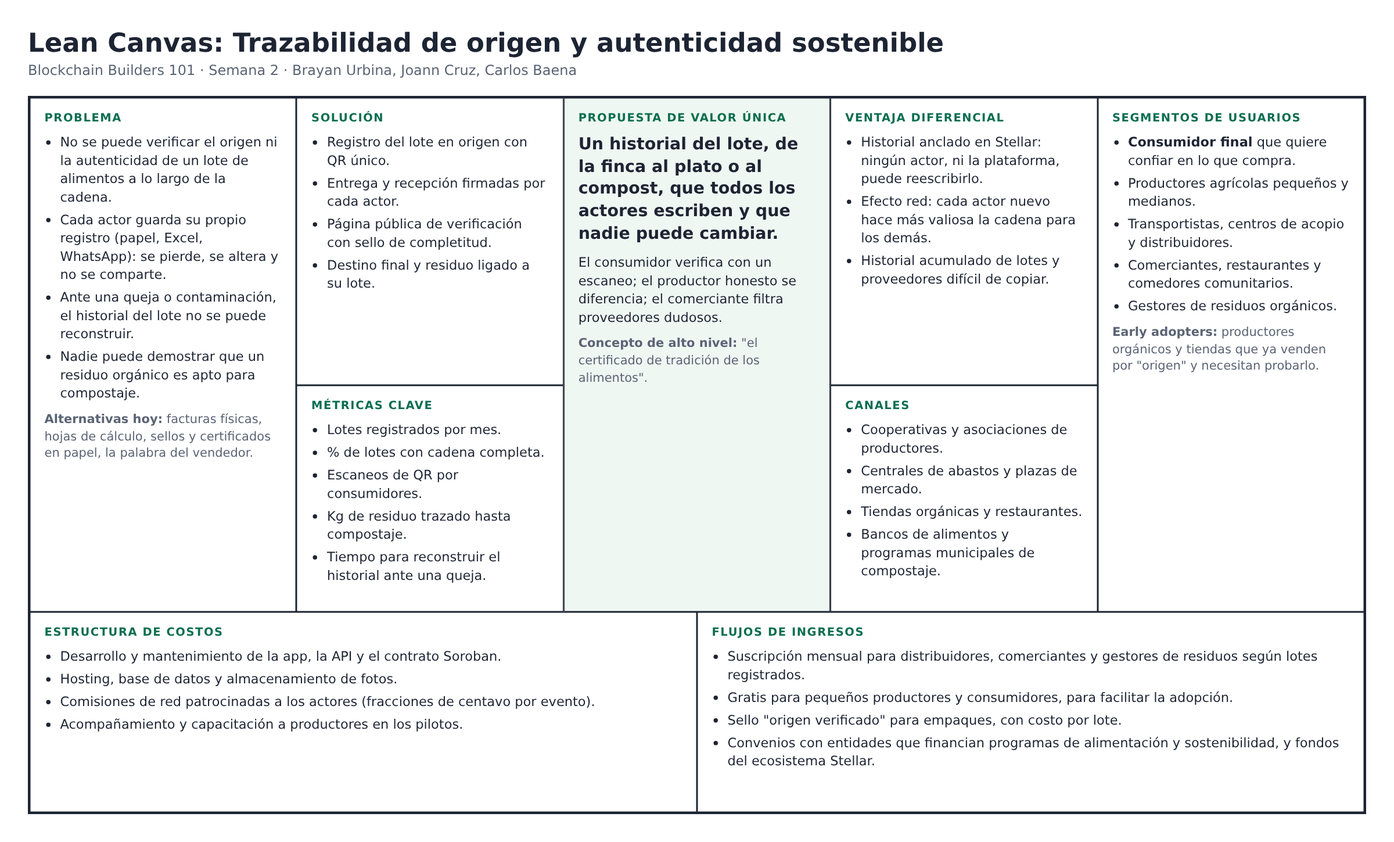
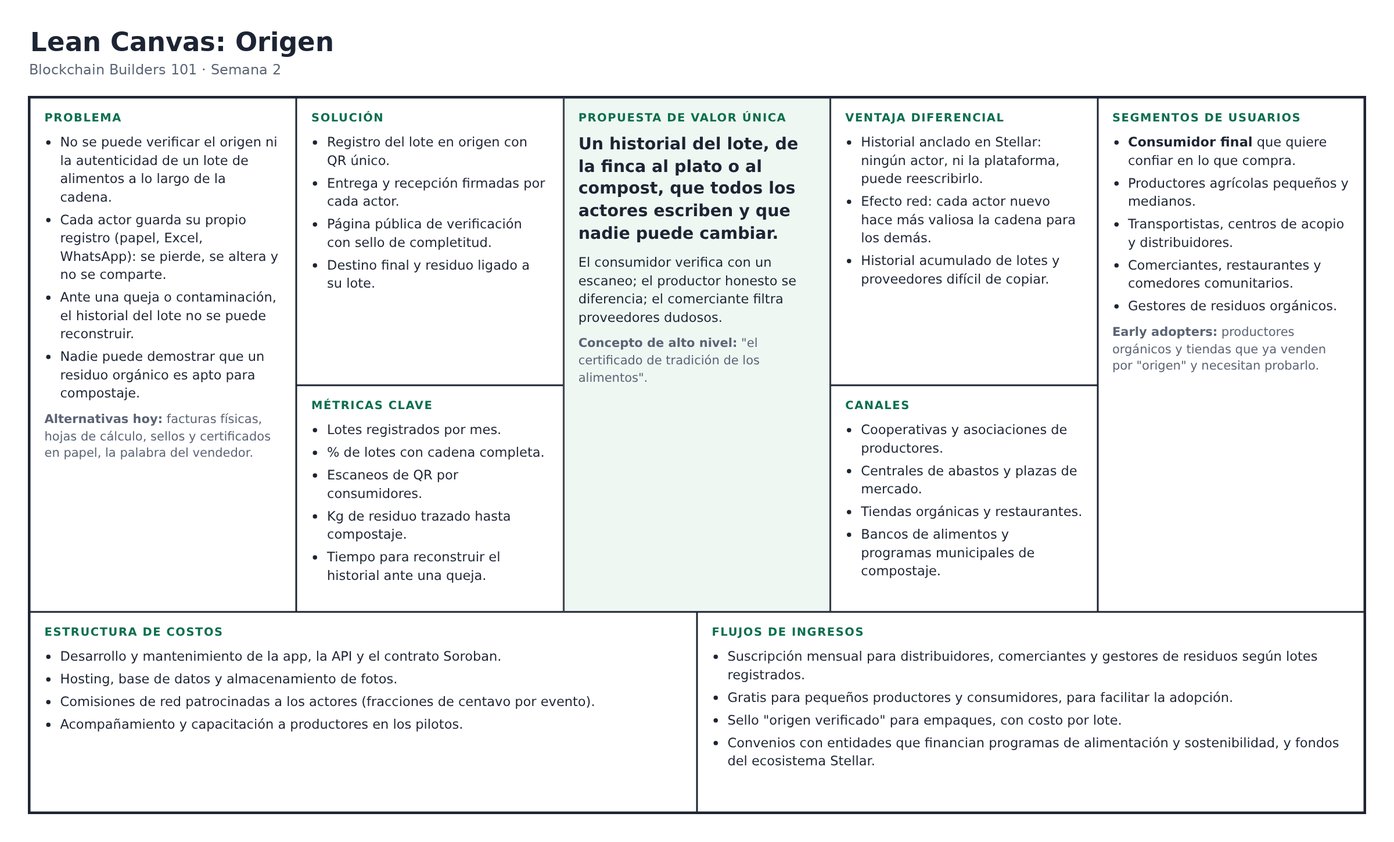
Producto Origen: Problem Brief coherente y sin nombres del equipo

Changed region(s): [[0.0, 0.0311, 0.6875, 0.0932]]

diff --git a/docs/semana1/ProblemBrief.md b/docs/semana1/ProblemBrief.md
@@ -4,29 +4,20 @@
 
 ### Problema elegido
 
-> El problema ganador en una frase, sin mencionar blockchain, y quién lo propuso.
-
-La dificultad para verificar la autenticidad y trazabilidad de productos y residuos orgánicos a lo largo de la cadena logística, desde el campo hasta el consumidor final. Fue propuesto por el equipo como una oportunidad real para mejorar la confianza, la sostenibilidad y la transparencia en la distribución de alimentos y residuos.
+Los alimentos, sus excedentes y los residuos orgánicos que generan no pueden verificarse a lo largo de la cadena, desde el campo hasta el consumidor final o el compostaje: nadie puede comprobar de dónde vienen, por qué manos pasaron ni a dónde fueron a parar. Lo tomé de una de las propuestas individuales del equipo y le sumé el enfoque de excedentes y desperdicio de alimentos de otra.
 
 ### Por qué elegimos este
 
-> Qué inclinó al equipo por este problema frente a los demás, según los criterios de la Sesión 1.
-
-Porque afecta a varias partes de la cadena: productores, transportistas, distribuidores, retailers y consumidores, y además tiene impacto ambiental y económico. La falta de trazabilidad genera fraude, productos no auténticos, desperdicio de alimentos y dificultades para aprovechar correctamente los residuos orgánicos como abono. Además, el problema es observable, repetitivo y tiene un claro valor social y operativo, lo que permite plantear una solución con fuerte pertinencia para blockchain.
+Lo elegí porque dos de las tres propuestas individuales apuntaban al mismo flujo: alimentos cuyo origen y destino no se pueden demostrar. Al unirlas, el problema cubre la cadena completa, desde la cosecha hasta el excedente y el abono. Además cumple dos criterios de la Sesión 1: varias partes que no confían entre sí (productor, transportista, distribuidor, comerciante, restaurante o comedor, consumidor y gestor de residuos) necesitan compartir un mismo registro, y el historial de cada lote no debería poder alterarse. Tiene también un impacto económico y ambiental medible: en Colombia se pierde o desperdicia cerca de una de cada tres toneladas de alimentos disponibles.
 
 ### Propuestas descartadas
 
-> Cada propuesta considerada, quién la propuso y el motivo del descarte.
-
-- Pago digital para microempresarios en zonas rurales: propuesta secundaria del equipo, pero se consideró más enfocada en la inclusión financiera que en el problema de trazabilidad real de la cadena de valor.
-- Verificación de origen de productos de lujo: sugerida por un integrante, pero se descartó por ser demasiado específica y menos relevante para el impacto colectivo y ambiental del proyecto.
-- Compra y venta de energías renovables: propuesta discutida, pero se descartó porque depende de marcos regulatorios y mercados energéticos más complejos que la logística de alimentos y residuos.
+- **Historial de vehículos usados en Colombia.** Se descartó porque una parte del historial ya la cubre el RUNT (propietarios, SOAT, revisión técnico-mecánica) y el resto depende de que talleres y aseguradoras, que hoy no tienen incentivo para hacerlo, registren su información. Esas eran justamente las dos dudas que la propia propuesta dejaba por validar.
+- **Trazabilidad del desperdicio de alimentos.** No se descartó: se integró al problema elegido como la parte de excedentes, donaciones y residuos de los servicios de alimentación.
 
 ### Cómo tomamos la decisión
 
-> Cómo llegó el equipo al acuerdo: votación, consenso tras debate u otro.
-
-Se realizó una discusión grupal para priorizar problemas con alto impacto, alcance real y capacidad de solución con trazabilidad verificable. Tras comparar varias opciones, el equipo consensuó que la autenticidad y trazabilidad de productos y residuos orgánicos era la propuesta más sólida, porque conecta producción, distribución, consumo y reutilización de residuos de manera clara y medible.
+Cada integrante planteó un problema en su propuesta individual. Yo las comparé y vi que dos de ellas describían el mismo problema desde las dos puntas de la cadena: el origen del producto y el destino de lo que sobra. Decidí unirlas en un solo problema y dejar de lado la propuesta de vehículos, que no se conectaba con las otras dos y que en parte ya cubre el RUNT.
 
 ---
 
@@ -34,80 +25,93 @@ Se realizó una discusión grupal para priorizar problemas con alto impacto, alc
 
 ### Encabezado
 
-> Nombre del proyecto y una frase que describa el problema. Extensión: breve.
-
-Trazabilidad de origen y autenticidad sostenible. Cuando los productos y los residuos orgánicos no pueden verificarse desde el campo hasta el consumidor final, se pierde confianza, se favorece el fraude y se desperdicia valor ambiental y económico.
+Origen. Cuando los alimentos, sus excedentes y los residuos orgánicos no pueden verificarse desde el campo hasta el consumidor final o el compostaje, se pierde confianza, queda espacio para el fraude y se desperdicia valor económico y ambiental.
 
 ### Equipo y roles
 
-> Integrantes con su usuario de GitHub, rol asumido por cada persona, responsable de las entregas y canal de coordinación interna. Extensión: breve.
+El equipo tiene tres integrantes. Cada uno planteó un problema en su propuesta individual, que está en `docs/semana1/`:
 
-Equipo de trabajo: Brayan Urbina, responsable de validación del problema, documentación y coordinación interna; miembros del equipo con roles de producto, investigación y presentación. Canal de coordinación: GitHub, reuniones semanales y seguimiento por tareas compartidas.
+- Trazabilidad de productos y residuos orgánicos desde el campo hasta el consumidor final (base del problema elegido).
+- Trazabilidad del desperdicio de alimentos en servicios de alimentación (integrada al problema elegido).
+- Historial de vehículos usados en Colombia (descartada).
+
+A partir de esas propuestas, yo elegí el problema, elaboré este Problem Brief y diseñé la propuesta escogida.
+
+Canal de coordinación: el repositorio y el tablero Kanban en GitHub.
 
 ### Problema y evidencia
 
-> Enunciado del problema en una frase, sin mencionar blockchain. Contexto, frecuencia y alcance. Evidencia mínima de que el problema existe: observación directa, experiencia propia, conversaciones o fuentes consultadas, con enlace o cita cuando aplique. Extensión: 150–300 palabras.
+Los alimentos que salen del campo, sus excedentes y los residuos orgánicos que generan no pueden verificarse a lo largo de la cadena logística. En cada cambio de manos (de la finca al transporte, al centro de acopio, al distribuidor y al comerciante o al restaurante) el origen, la calidad y la identidad del lote quedan anotados de forma parcial, en registros que cada actor guarda a su manera. Lo mismo pasa al final: nadie puede demostrar cuánto alimento sobró, si se vendió, se donó o terminó en la basura, ni si un residuo orgánico viene de un origen limpio y sirve para compostaje. Es un problema diario, porque ocurre con cada lote que se mueve, y alcanza a toda la cadena de alimentos frescos.
 
-El problema consiste en que productos agrícolas, alimentos y residuos orgánicos no pueden verificarse fácilmente a lo largo de la cadena logística: desde el origen en el campo, pasando por procesos de transporte, almacenamiento, distribución y venta, hasta llegar al consumidor final o al tratamiento para convertirlos en abono. En muchos casos, el origen real, la calidad, la identidad del lote y la trazabilidad del residuo no quedan registrados de forma confiable. Esto genera fraude, dudas sobre autenticidad, pérdida de valor y dificultad para reutilizar residuos orgánicos en procesos sostenibles.
+Evidencia:
 
-La evidencia aparece en conversaciones con productores, distribuidores y consumidores que reportan dificultades para confirmar dónde se produjo un alimento, si fue manipulado o si un residuo orgánico proviene realmente de un origen limpio y verificable. En la práctica, gran parte de la información se maneja en documentos físicos, mensajes o hojas de cálculo, que pueden perderse, alterarse o no compartirse entre todos los actores. El resultado es una cadena de suministro poco transparente, que afecta la confianza del cliente, la eficiencia operativa y la recuperación de valor de los desechos orgánicos.
+- **Fuentes consultadas.** Según un estudio del DNP, en Colombia se pierden o desperdician 9,76 millones de toneladas de alimentos al año, el 34 % de la oferta disponible ([Semana](https://www.semana.com/pais/articulo/colombianos-desperdician-9-millones-de-toneladas-de-comida/221786/)). La FAO estima que cerca del 60 % de esa pérdida y desperdicio ocurre antes del consumo, en producción, transporte y almacenamiento ([Tetra Pak, citando a la FAO](https://www.tetrapak.com/es-co/about-tetra-pak/news-and-events/newsarchive/colombia-pierde-9-76-millones-de-toneladas-de-alimentos-al-ano--)), justo los tramos donde hoy no queda un registro compartido.
+- **Propuestas individuales.** Una de las propuestas individuales describe que cada actor maneja su propia información y que, cuando surge una duda sobre el origen o el manejo de un producto, no existe una evidencia común que resuelva el conflicto. Otra señala que los servicios de alimentación no tienen datos de cuánto alimento se bota o se dona.
+- **Pendiente.** Validar el problema con conversaciones directas con productores, comerciantes y comedores comunitarios (ver supuestos).
 
 ### Usuario y actores
 
-> Quién sufre el problema y qué necesita resolver. Cómo lo resuelve hoy y qué le cuesta en dinero, tiempo o esfuerzo. Demás actores que intervienen en el flujo, con el papel que cumple cada uno. Extensión: 150–300 palabras.
+El usuario principal es la persona que compra alimentos o productos agrícolas y quiere confiar en que lo que recibe es auténtico, seguro y viene de donde dice. Junto a ella sufren el problema los actores que necesitan demostrar algo: el productor honesto, que no puede probar el origen de su cosecha, y los restaurantes, comedores comunitarios y comerciantes, que no pueden demostrar a dónde fue a parar el alimento que les sobró.
 
-El usuario principal es cualquier persona que compra alimentos o productos agrícolas y quiere confiar en que lo que recibe es auténtico, seguro y conforme a su origen. También importa la persona o entidad que genera residuos orgánicos y desea reutilizarlos en compostaje o abono, asegurando que ese material tenga un origen verificable y no esté contaminado. El problema afecta tanto al consumidor final como a productores, distribuidores, retailers y gestores de residuos.
+Hoy lo resuelven con facturas y remisiones en papel, cuadernos, hojas de cálculo y mensajes de WhatsApp que cada uno guarda a su manera. Eso cuesta tiempo para confirmar datos, aumenta los errores y hace casi imposible demostrar autenticidad cuando surge una disputa. Cuesta dinero, porque se paga igual por un producto dudoso que por uno auténtico y se pierden lotes completos ante una queja que no se puede aclarar. Y cuesta valor ambiental, porque sin datos de cuánto sobra ni en qué estado, el excedente termina en la basura en lugar de donarse o convertirse en abono.
 
-Hoy, muchas de estas personas resuelven la situación con facturas físicas, registros manuscritos, mensajes de WhatsApp o hojas de cálculo. Esto exige tiempo extra para confirmar datos, aumenta la posibilidad de errores y hace muy difícil demostrar autenticidad cuando surge una disputa. Las pérdidas no son solo financieras: también hay impacto en la confianza del cliente, en la sostenibilidad y en la calidad del proceso de reciclaje y abono.
+Actores que intervienen:
 
-Los actores involucrados son: el productor del campo, que necesita demostrar el origen de la cosecha; el transportista, que mueve el producto entre puntos; el distribuidor o centro de acopio, que almacena y clasifica; el vendedor o retailer, que necesita confirmar la calidad de lo que ofrece; y el consumidor final, que quiere saber qué está comprando. Además, intervienen quienes gestionan residuos orgánicos para convertirlos en compostaje o abono, quienes necesitan verificar el origen y la limpieza del material.
+- **Productor:** cosecha y arma el lote; necesita demostrar su origen.
+- **Transportista:** lleva el lote entre la finca, el acopio y la distribución.
+- **Centro de acopio o distribuidor:** almacena, clasifica y vende a comerciantes y restaurantes.
+- **Comerciante:** necesita confirmar la calidad y el origen de lo que ofrece.
+- **Restaurante o comedor comunitario:** prepara alimentos y decide si el excedente se vende, se dona (por ejemplo, a un banco de alimentos) o va a compostaje.
+- **Consumidor final:** quiere saber qué está comprando.
+- **Gestor de residuos orgánicos:** convierte los residuos en compostaje o abono y necesita verificar que el material es limpio.
 
 ### Flujo actual de valor
 
-> Recorrido paso a paso de cómo se mueve hoy el dinero, la información o el activo, desde el origen hasta el destino. Diagrama o secuencia numerada, con los intermediarios explícitos. Señalar si algún paso responde a una obligación normativa. Extensión: 150–300 palabras.
-
-1. El productor cosecha o genera un producto o residuo orgánico en el campo o en una operación agrícola.
-2. La información del lote se registra de forma parcial, normalmente en papel, Excel o sistemas desconectados.
-3. El transporte lleva el producto hacia centros de acopio, almacenamiento o distribución.
-4. En cada punto, el producto o residuo pasa por inspecciones, clasificación y cambio de manos, pero la trazabilidad no siempre queda integrada.
-5. El distribuidor vende al retailer o consumidor final, aunque no siempre puede comprobar la autenticidad o el origen exacto del lote.
-6. En el caso de residuos orgánicos, estos se reutilizan como abono o compostaje, pero sin evidencia clara de origen limpio o de manejo correcto.
+1. El productor cosecha y arma el lote en la finca.
+2. La información del lote (origen, fecha, cantidad, calidad) se registra de forma parcial, en papel, Excel o mensajes, y se queda con el productor.
+3. El transportista lleva el lote al centro de acopio o al distribuidor, con una remisión o factura en papel como único respaldo.
+4. En el acopio y la distribución el lote se inspecciona, se clasifica y cambia de manos. Cada actor anota en sus propios registros y la trazabilidad no queda integrada. *Obligación normativa:* las inspecciones de calidad e inocuidad responden a la normativa sanitaria de alimentos.
+5. El distribuidor vende al comerciante o al restaurante, y estos al consumidor final, sin poder comprobar el origen exacto del lote.
+6. Lo que sobra en comerciantes, restaurantes y comedores se vende, se dona o se entrega como residuo orgánico al gestor de residuos para compostaje o abono, sin evidencia de su lote de origen, su cantidad ni su manejo. *Obligación normativa:* la [Ley 1990 de 2019](https://alertas.directoriolegislativo.org/wp-content/uploads/2019/08/LEY-1990-DE-2019.pdf) fija un orden de prioridad para el alimento que sobra: primero reducir la pérdida, luego destinarlo al consumo humano, por ejemplo con donaciones, y solo después aprovecharlo como residuo orgánico.
 7. Cuando surge una queja, contaminación, fraude o diferencia de calidad, la cadena de evidencia es difícil de reconstruir.
 
-En este flujo intervienen productores, transportistas, almacenes, distribuidores, vendedores y gestores de residuos. Además, existen obligaciones regulatorias relacionadas con seguridad alimentaria, control de calidad, manejo de residuos y trazabilidad sanitaria, que exigen documentación adecuada y verificable, pero no siempre se cumplen de forma consistente.
+Intermediarios entre el productor y el consumidor final: transportista, centro de acopio o distribuidor, y comerciante o restaurante. Para lo que sobra intervienen además los bancos de alimentos y los gestores de residuos. Ninguno de ellos concentra la información: cada uno guarda solo su parte del recorrido.
 
 ### Fricciones identificadas
 
-> Puntos concretos donde el flujo falla, se encarece o se demora. Cada fricción indica en qué paso ocurre, qué la causa y a quién afecta. Extensión: 150–300 palabras.
+**Fricción 1 (pasos 2 y 4): no hay un registro compartido y verificable del lote.** Cada actor anota el origen, la calidad y la entrega en sus propios registros, que no se comparten y se pueden perder o alterar. Afecta al productor, que no puede probar el origen de su cosecha; al comerciante y al consumidor, que no pueden verificar lo que compran, y al gestor de residuos, que no sabe de qué lote viene el material.
 
-La primera fricción ocurre en los pasos 2 y 4: la información del producto o residuo no queda registrada de forma confiable ni compartida entre actores. La causa es que cada parte usa sus propios registros, sin una visión común ni verificable. Esto afecta a productores, distribuidores, consumidores y gestores de residuos, porque no pueden demostrar la autenticidad ni la cadena de custodia del material.
+**Fricción 2 (paso 7): el historial no se puede reconstruir cuando hay un problema.** Ante una queja, una contaminación o una sospecha de fraude hay que perseguir papeles y mensajes entre varios actores. Esto provoca retrasos, disputas, devoluciones de lotes completos y daño a la reputación. Afecta sobre todo al distribuidor y al comerciante, y al productor honesto, que termina pagando por la duda.
 
-La segunda fricción aparece cuando se detecta un problema de calidad, contaminación o fraude: no hay una forma clara de reconstruir el historial del lote. Esto provoca retrasos, disputas, pérdidas económicas y riesgo para la reputación. La tercera fricción se presenta en la reutilización de residuos orgánicos: sin validación del origen, es difícil saber si el material es apto para compostaje o abono, o si cumple con estándares de calidad y seguridad.
+**Fricción 3 (paso 6): no se sabe a dónde va lo que sobra.** Nadie registra cuánto excedente hubo ni si se vendió, se donó o se botó, y sin el lote de origen no se puede saber si un residuo es apto para compostaje. Afecta a los restaurantes y comedores, que no pueden demostrar que aprovechan sus excedentes; al gestor de residuos, que no puede garantizar un abono limpio, y a quien compra ese abono.
 
-En resumen, el problema no es solo la falta de datos, sino la falta de una trazabilidad compartida y verificable que se mantenga en toda la cadena, desde el campo hasta el usuario final y la valorización del residuo orgánico.
+Las tres fricciones tienen la misma raíz: falta una trazabilidad compartida y verificable que acompañe al lote desde la finca hasta el consumidor final o el compostaje.
 
 ### Oportunidad e hipótesis
 
-> Oportunidad priorizada entre las fricciones identificadas, con el motivo de la elección. Hipótesis inicial de por qué blockchain podría mejorar ese punto, expresada en términos de qué cambiaría para el usuario. Extensión: 150–300 palabras.
+Prioricé la **fricción 1 (pasos 2 y 4)**: la falta de una trazabilidad compartida y verificable del lote. La elegí porque es la raíz de las otras dos. Si el origen y cada cambio de manos quedan registrados desde la finca, el historial se puede reconstruir en minutos cuando hay una queja (fricción 2) y el excedente o el residuo se puede ligar a su lote de origen (fricción 3). Sin ese registro, ninguna de las otras dos tiene solución.
 
-La fricción priorizada es la ausencia de trazabilidad verificable en toda la cadena de producción y residuos orgánicos. Es la oportunidad clave porque afecta la confianza del consumidor, la eficiencia de la operación y la capacidad de reutilizar de forma segura los desechos como abono. Si cada lote pudiera identificarse y validarse desde el origen hasta el destino final, el sistema tendría menos fraude, más transparencia y mejor aprovechamiento de los materiales.
+La hipótesis es que un registro en blockchain, compartido por todos los actores, permitiría que cada uno firme su propio evento (cosecha, entrega, recepción, destino del excedente) en un historial que ninguno controla por sí solo y que nadie puede editar después. Para los usuarios cambiaría lo siguiente:
 
-La hipótesis es que un sistema basado en blockchain podría crear un registro compartido e inalterable para cada lote de producto o residuo, con información sobre origen, transporte, manipulación y destino final. Esto cambiaría para los usuarios la experiencia de compra: podrían verificar autenticidad, conocer el origen del producto y saber si el residuo generado fue gestionado correctamente. Para los productores y distribuidores, significaría menos pérdidas por dudas de calidad, más confianza con el cliente y una mejor valoración de los desechos orgánicos para compostaje o abono.
+- El consumidor final podría escanear un código y ver de qué finca viene el lote y por qué manos pasó antes de comprarlo.
+- El comerciante podría decidir si acepta un lote mirando si su historial está completo o tiene saltos.
+- El productor honesto podría diferenciar su producto con evidencia y no solo con su palabra.
+- El restaurante o comedor podría demostrar a dónde fue cada excedente, y el gestor de residuos, que su abono viene de material limpio.
 
 ### Criterio de pertinencia
 
-> Justificación de por qué el caso requiere un registro distribuido y no una base de datos tradicional o una integración entre sistemas existentes. Debe apoyarse en al menos uno de los criterios de la Sesión 1: varias partes que no confían entre sí necesitan compartir un mismo registro, el histórico no puede alterarse, o se elimina un intermediario que hoy concentra la confianza. Extensión: 150–300 palabras.
+Este caso se apoya en dos criterios de la Sesión 1.
 
-Este caso requiere un registro distribuido porque hay varias partes con intereses distintos y sin confianza plena entre sí: productor, transportista, distribuidor, retailer, consumidor y gestor de residuos. Todas necesitan compartir la misma evidencia sobre el origen, la manipulación y la transferencia del producto o residuo, sin depender de un único actor que controle la información. Un sistema centralizado suele concentrar la confianza en un operador o empresa, pero eso no resuelve la necesidad de transparencia entre actores diferentes.
+**Varias partes que no confían entre sí necesitan compartir un mismo registro.** Productor, transportista, centro de acopio, distribuidor, comerciante, restaurante o comedor, consumidor y gestor de residuos tienen intereses distintos: quien vende quiere vender caro y quien compra quiere pagar por lo que realmente recibe. Hoy la información no está centralizada en nadie: cada actor guarda su parte. Una base de datos tradicional obligaría a que uno de ellos, o una empresa nueva, controle el registro, y los demás tendrían que confiar en que no lo modifique a su favor. Integrar los sistemas existentes tampoco sirve, porque la mayoría de estos actores no tiene sistemas: usa papel, Excel y WhatsApp.
 
-Además, el historial de cada lote debe ser verificable y difícil de alterar, especialmente cuando se presenta una reclamación, una diferencia de calidad o una sospecha de fraude. Un registro distribuido permite que todos los participantes validen una historia común e inmutable. También reduce la dependencia de intermediarios que hoy centralizan la información y pueden generar dudas o retrasos. En este contexto, la trazabilidad del producto y del residuo orgánico no puede depender solo de documentos aislados, sino de un historial compartido y confiable para toda la cadena.
+**El histórico no puede alterarse.** El valor del registro está en que sirva como evidencia cuando hay una reclamación, una diferencia de calidad o una sospecha de fraude. Si un actor pudiera borrar o cambiar un evento pasado, como la fecha de una entrega o el estado en que llegó un lote, el historial dejaría de servir justo cuando más se necesita. Un registro distribuido, donde cada evento queda firmado por quien lo hizo y no se puede editar, permite que todos validen una historia común sin depender de un intermediario que la custodie.
 
 ### Supuestos y riesgos
 
-> Dos o tres supuestos que tendrían que ser ciertos para que la hipótesis funcione, y qué podría invalidarla. Extensión: 150–300 palabras.
+**Supuesto 1:** los actores de la cadena están dispuestos a registrar cada evento del lote. Lo invalidaría que no vean una ventaja concreta, por ejemplo, que el comerciante no prefiera ni pague mejor un lote con historial completo.
 
-Supuesto 1: los actores de la cadena están dispuestos a registrar y compartir datos sobre el origen y manejo de productos y residuos. Si no ven una ventaja concreta, la adopción será baja. Supuesto 2: es posible capturar información confiable en cada etapa del proceso, incluso desde el campo o el punto de recolección. Si la información se registra de forma incompleta o manipulada, la solución pierde valor. Supuesto 3: existe una demanda real por parte de consumidores y reguladores para verificar autenticidad, calidad y sostenibilidad.
+**Supuesto 2:** es posible capturar información confiable desde el origen, incluso en la finca y con conectividad limitada. Lo invalidaría que los datos iniciales se registren incompletos o falsos: un registro inalterable de un dato falso no aporta confianza.
 
-Los riesgos principales son la baja adopción por parte de productores o distribuidores, la falta de estandarización de datos y la dificultad de integrar los sistemas existentes. También existe el riesgo de que la tecnología no resuelva el problema si la información inicial no es confiable, o si el ecosistema no tiene incentivos claros para mantener el registro actualizado. Si cualquiera de estos supuestos falla, la propuesta dejaría de aportar valor real y no lograría mejorar la trazabilidad y la reutilización de residuos orgánicos.
+**Supuesto 3:** existe una demanda real por verificar el origen y el destino de los alimentos. Lo invalidaría que el consumidor no escanee el código o no cambie su decisión de compra al ver el historial, o que los restaurantes y comedores no necesiten demostrar el destino de sus excedentes.
 
-
+Los riesgos principales son la baja adopción por parte de productores y distribuidores, la falta de estandarización de los datos entre actores y la dificultad de registrar eventos desde el campo. Si alguno de los supuestos falla, la solución no mejoraría la trazabilidad de los alimentos ni el aprovechamiento de sus excedentes y residuos, aunque la tecnología funcione.

diff --git a/docs/semana2/ProductBlueprint.md b/docs/semana2/ProductBlueprint.md
@@ -1,6 +1,6 @@
 # Product Blueprint
 
-**Nombre del proyecto:** Trazabilidad de origen y autenticidad sostenible
+**Nombre del proyecto:** Origen
 
 **Repositorio (enlace obligatorio):** [bootcamp-stellar](https://github.com/burbinagomez/bootcamp-stellar)
 
@@ -21,17 +21,17 @@
 
 ## 1. Priorización de historias
 
-**Criterio de priorización:** MoSCoW aplicado sobre las 21 historias del equipo. Una historia es **imprescindible** si sin ella no existe un historial verificable del lote (origen, custodia y consulta). Es **debería** si le da al usuario una razón directa para adoptar la plataforma o cubre la parte de residuos y excedentes del problema. Las historias que dependen de tener meses de datos o de actores que no están en el primer piloto quedan fuera. Las historias repetidas entre integrantes se fusionaron.
+**Criterio de priorización:** MoSCoW aplicado sobre las 21 historias de usuario. Una historia es **imprescindible** si sin ella no existe un historial verificable del lote (origen, custodia y consulta). Es **debería** si le da al usuario una razón directa para adoptar la plataforma o cubre la parte de residuos y excedentes del problema. Las historias que dependen de tener meses de datos o de actores que no están en el primer piloto quedan fuera. Fusioné las historias que se repetían.
 
-| Prioridad | Historia | Propuesta por | Por qué entra al backlog |
-| :---: | --- | :---: | --- |
-| 1 | Como productor agrícola quiero registrar cada lote al momento de la cosecha y obtener un código único, para demostrar de dónde viene mi producto. | Carlos | Imprescindible: es el primer eslabón y todo lo demás se apoya en él. |
-| 2 | Como administrador quiero asignar a cada usuario su rol, para que cada actor solo registre los eventos que le corresponden. | Brayan | Imprescindible: sin roles el historial pierde credibilidad. |
-| 3 | Como transportista, centro de acopio o distribuidor quiero firmar la entrega y la recepción de un lote, para que la cadena de custodia quede registrada y no pueda modificarse. | Carlos y Brayan | Imprescindible: ataca la fricción principal del Problem Brief (pasos 2 y 4). |
-| 4 | Como consumidor final quiero escanear el QR del producto y ver su origen y recorrido, para saber si es auténtico antes de pagar. | Carlos | Imprescindible: es el valor visible para el usuario principal. |
-| 5 | Como comerciante quiero ver un sello que indique si el historial del lote está completo o tiene saltos, para decidir rápido si lo compro. | Brayan | Debería: convierte el historial en una decisión simple y ayuda a la adopción. |
-| 6 | Como restaurante o servicio de alimentos quiero marcar el destino de cada excedente (donado, vendido o compostaje), para demostrar que no termina en la basura. | Joann | Debería: cubre los excedentes y el desperdicio, que son parte del problema elegido. |
-| 7 | Como gestor de residuos orgánicos quiero registrar los residuos recibidos ligados a su lote de origen y marcarlos como aptos o no aptos para compostaje, para garantizar abono de material limpio. | Carlos | Debería: cierra el ciclo del residuo orgánico. |
+| Prioridad | Historia | Por qué entra al backlog |
+| :---: | --- | --- |
+| 1 | Como productor agrícola quiero registrar cada lote al momento de la cosecha y obtener un código único, para demostrar de dónde viene mi producto. | Imprescindible: es el primer eslabón y todo lo demás se apoya en él. |
+| 2 | Como administrador quiero asignar a cada usuario su rol, para que cada actor solo registre los eventos que le corresponden. | Imprescindible: sin roles el historial pierde credibilidad. |
+| 3 | Como transportista, centro de acopio o distribuidor quiero firmar la entrega y la recepción de un lote, para que la cadena de custodia quede registrada y no pueda modificarse. | Imprescindible: ataca la fricción principal del Problem Brief (pasos 2 y 4). |
+| 4 | Como consumidor final quiero escanear el QR del producto y ver su origen y recorrido, para saber si es auténtico antes de pagar. | Imprescindible: es el valor visible para el usuario principal. |
+| 5 | Como comerciante quiero ver un sello que indique si el historial del lote está completo o tiene saltos, para decidir rápido si lo compro. | Debería: convierte el historial en una decisión simple y ayuda a la adopción. |
+| 6 | Como restaurante o servicio de alimentos quiero marcar el destino de cada excedente (donado, vendido o compostaje), para demostrar que no termina en la basura. | Debería: cubre los excedentes y el desperdicio, que son parte del problema elegido. |
+| 7 | Como gestor de residuos orgánicos quiero registrar los residuos recibidos ligados a su lote de origen y marcarlos como aptos o no aptos para compostaje, para garantizar abono de material limpio. | Debería: cierra el ciclo del residuo orgánico. |
 
 ---
 
@@ -116,11 +116,11 @@ El tablero tiene las 7 historias priorizadas en la sección 1, en las columnas *
 
 **Criterio de pertinencia (del Problem Brief):** Varias partes que no confían entre sí (productor, transportista, distribuidor, comerciante, consumidor y gestor de residuos) necesitan compartir un mismo registro, y el histórico de cada lote no puede alterarse.
 
-| Componente de Stellar | Para qué lo usamos | Por qué ese y no otra alternativa |
+| Componente de Stellar | Para qué lo uso | Por qué ese y no otra alternativa |
 | --- | --- | --- |
 | Contratos inteligentes Soroban | Guardar cada lote y sus eventos, y aplicar las reglas: quién puede registrar qué paso y en qué orden. | Las reglas quedan en la red y no en el servidor de un actor, que podría cambiarlas. Una base de datos central volvería a poner la confianza en un solo operador. |
 | Cuentas de Stellar con firma (smart wallets con passkeys) | Que cada actor firme sus eventos con su propia llave, desde el celular y sin frases semilla. | La firma demuestra quién registró cada paso y nadie puede firmar por otro. Las passkeys bajan la barrera para productores sin experiencia en cripto. |
 | Patrocinio de comisiones (fee-bump transactions) | Que la plataforma pague las comisiones de las transacciones de los actores. | El productor o el comedor no tienen que comprar XLM. Las comisiones de Stellar son de fracciones de centavo, lo que hace viable registrar muchos eventos pequeños. |
 | Stellar RPC y eventos del contrato | Leer el historial del lote para la página pública y mantener actualizado el índice de la API. | Permite que cualquier persona verifique el historial directo en la red, sin confiar en la base de datos de la plataforma. |
 
-Para el MVP usamos testnet. Más adelante se podría emitir un activo de Stellar como incentivo para quienes registren cadenas completas, pero queda fuera del alcance actual.
+Para el MVP uso testnet. Más adelante se podría emitir un activo de Stellar como incentivo para quienes registren cadenas completas, pero queda fuera del alcance actual.

diff --git a/docs/semana1/JoannCruz.md b/docs/semana1/JoannCruz.md
@@ -2,7 +2,7 @@
 
 **Nombre:** Joann Cruz 
 
-**Usuario de GitHub:** JoannC1907:42 PM
+**Usuario de GitHub:** JoannC19
 
 ---
 

diff --git a/docs/semana2/JoannCruz.md b/docs/semana2/JoannCruz.md
@@ -2,7 +2,7 @@
 
 **Nombre:** Joann Cruz
 
-**Usuario de GitHub:** JoannC1907
+**Usuario de GitHub:** JoannC19
 
 ---
 
